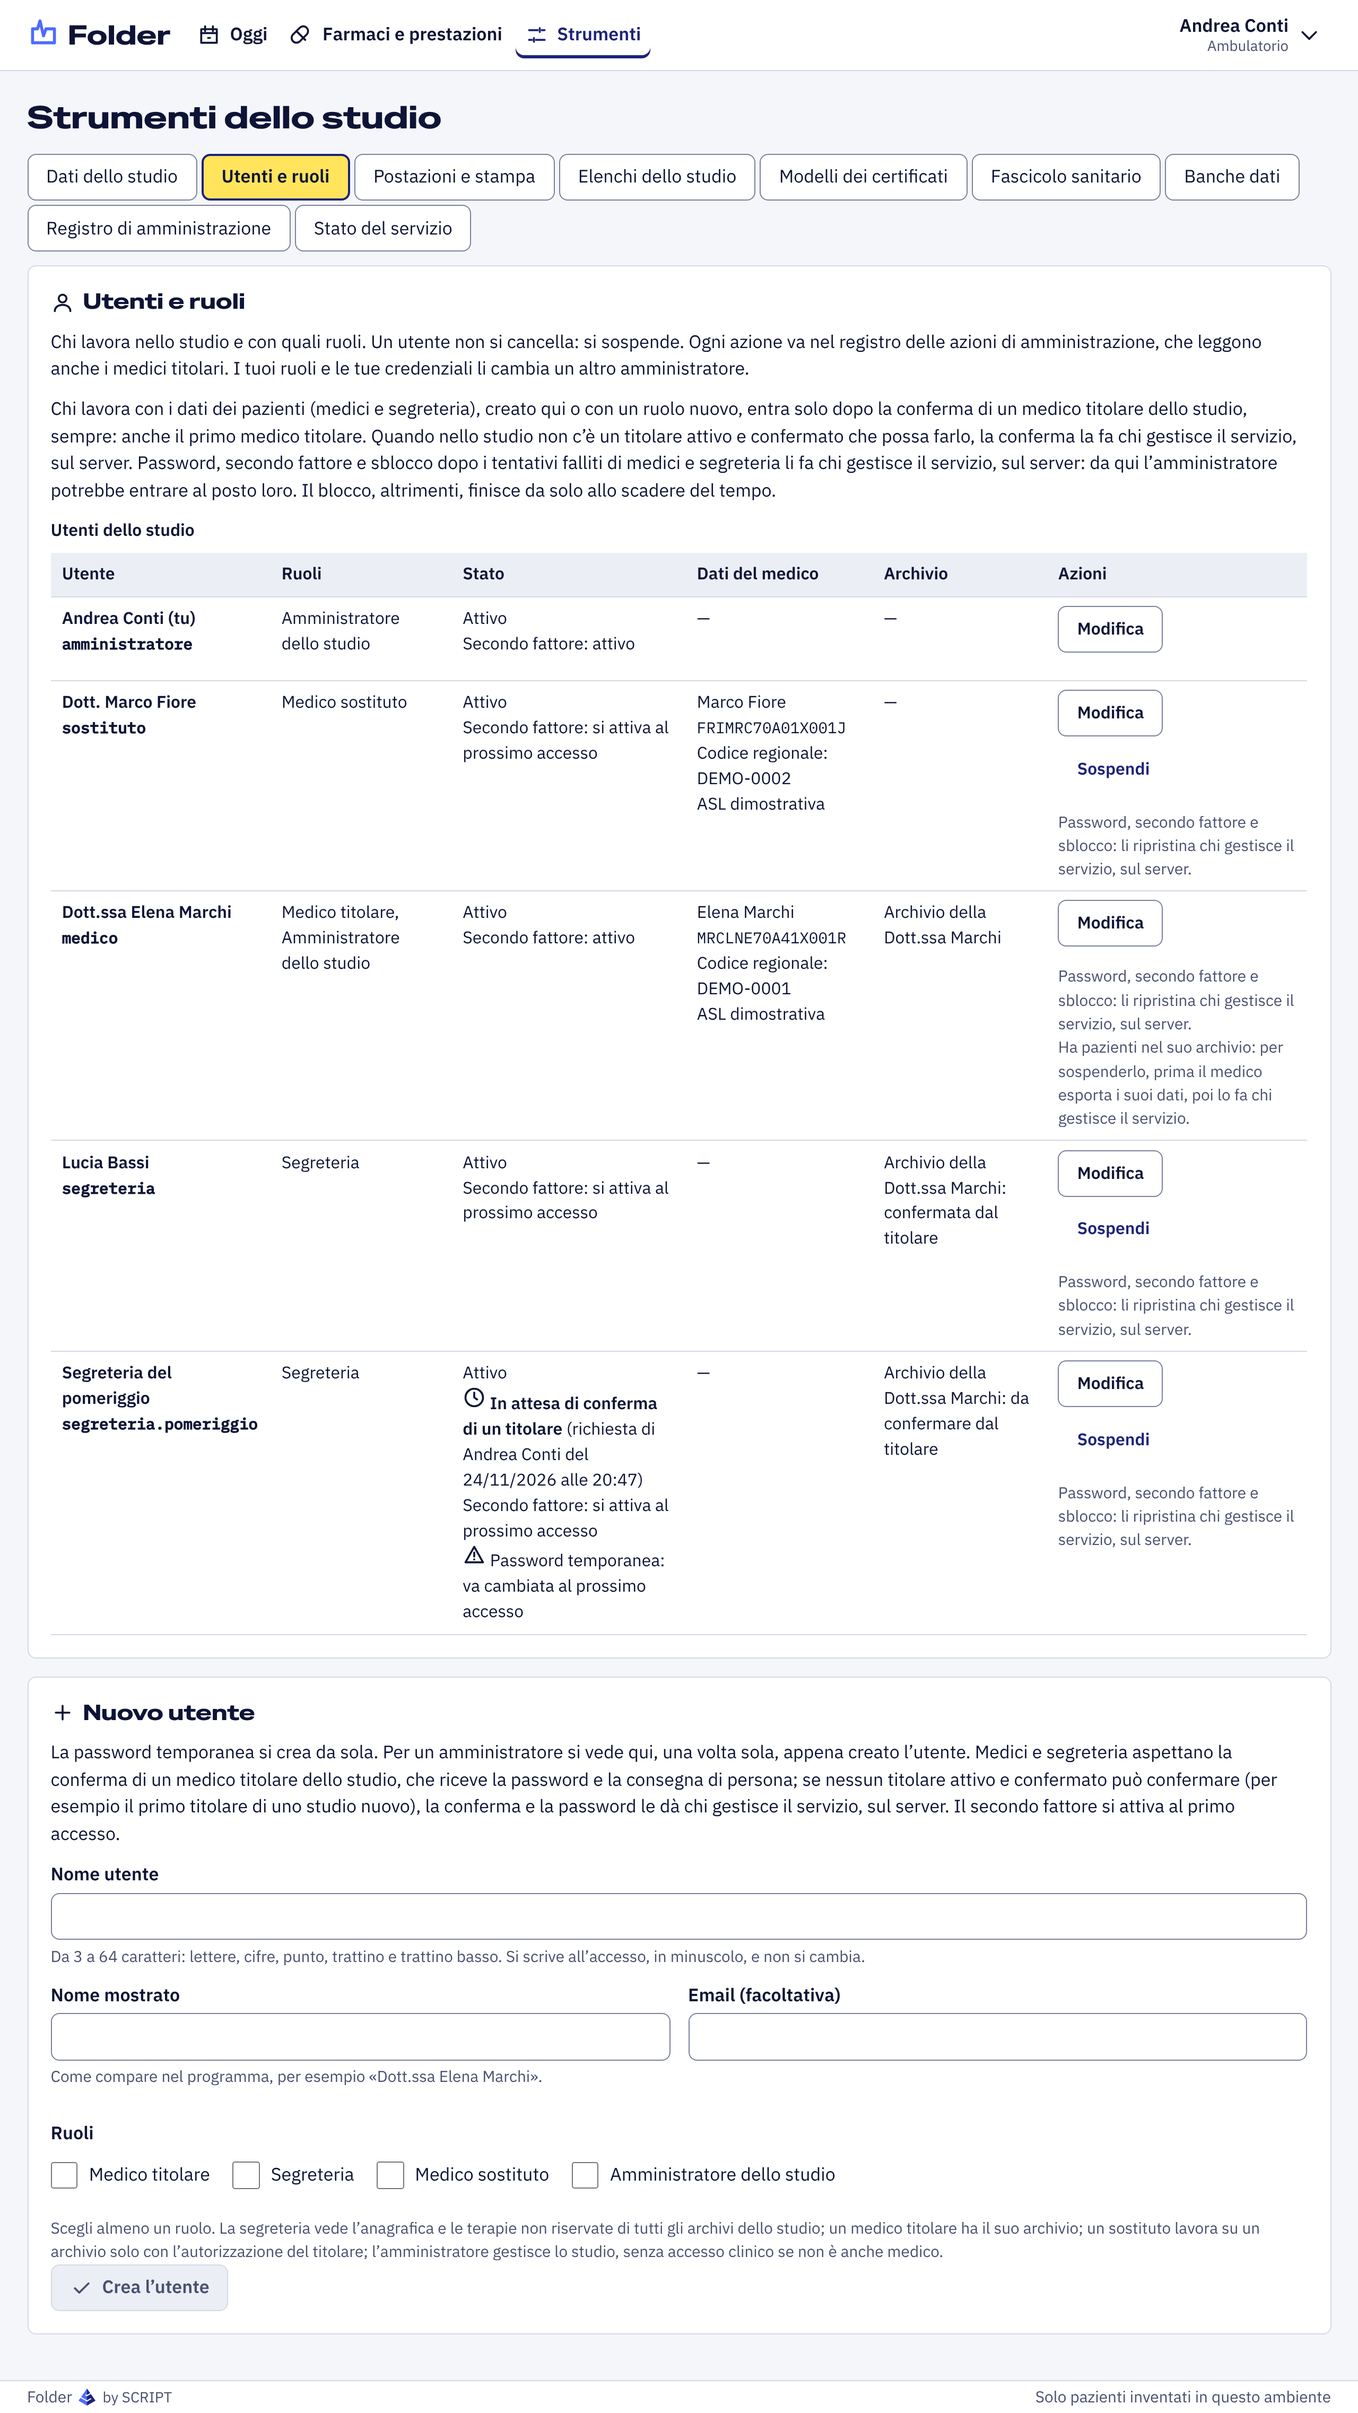
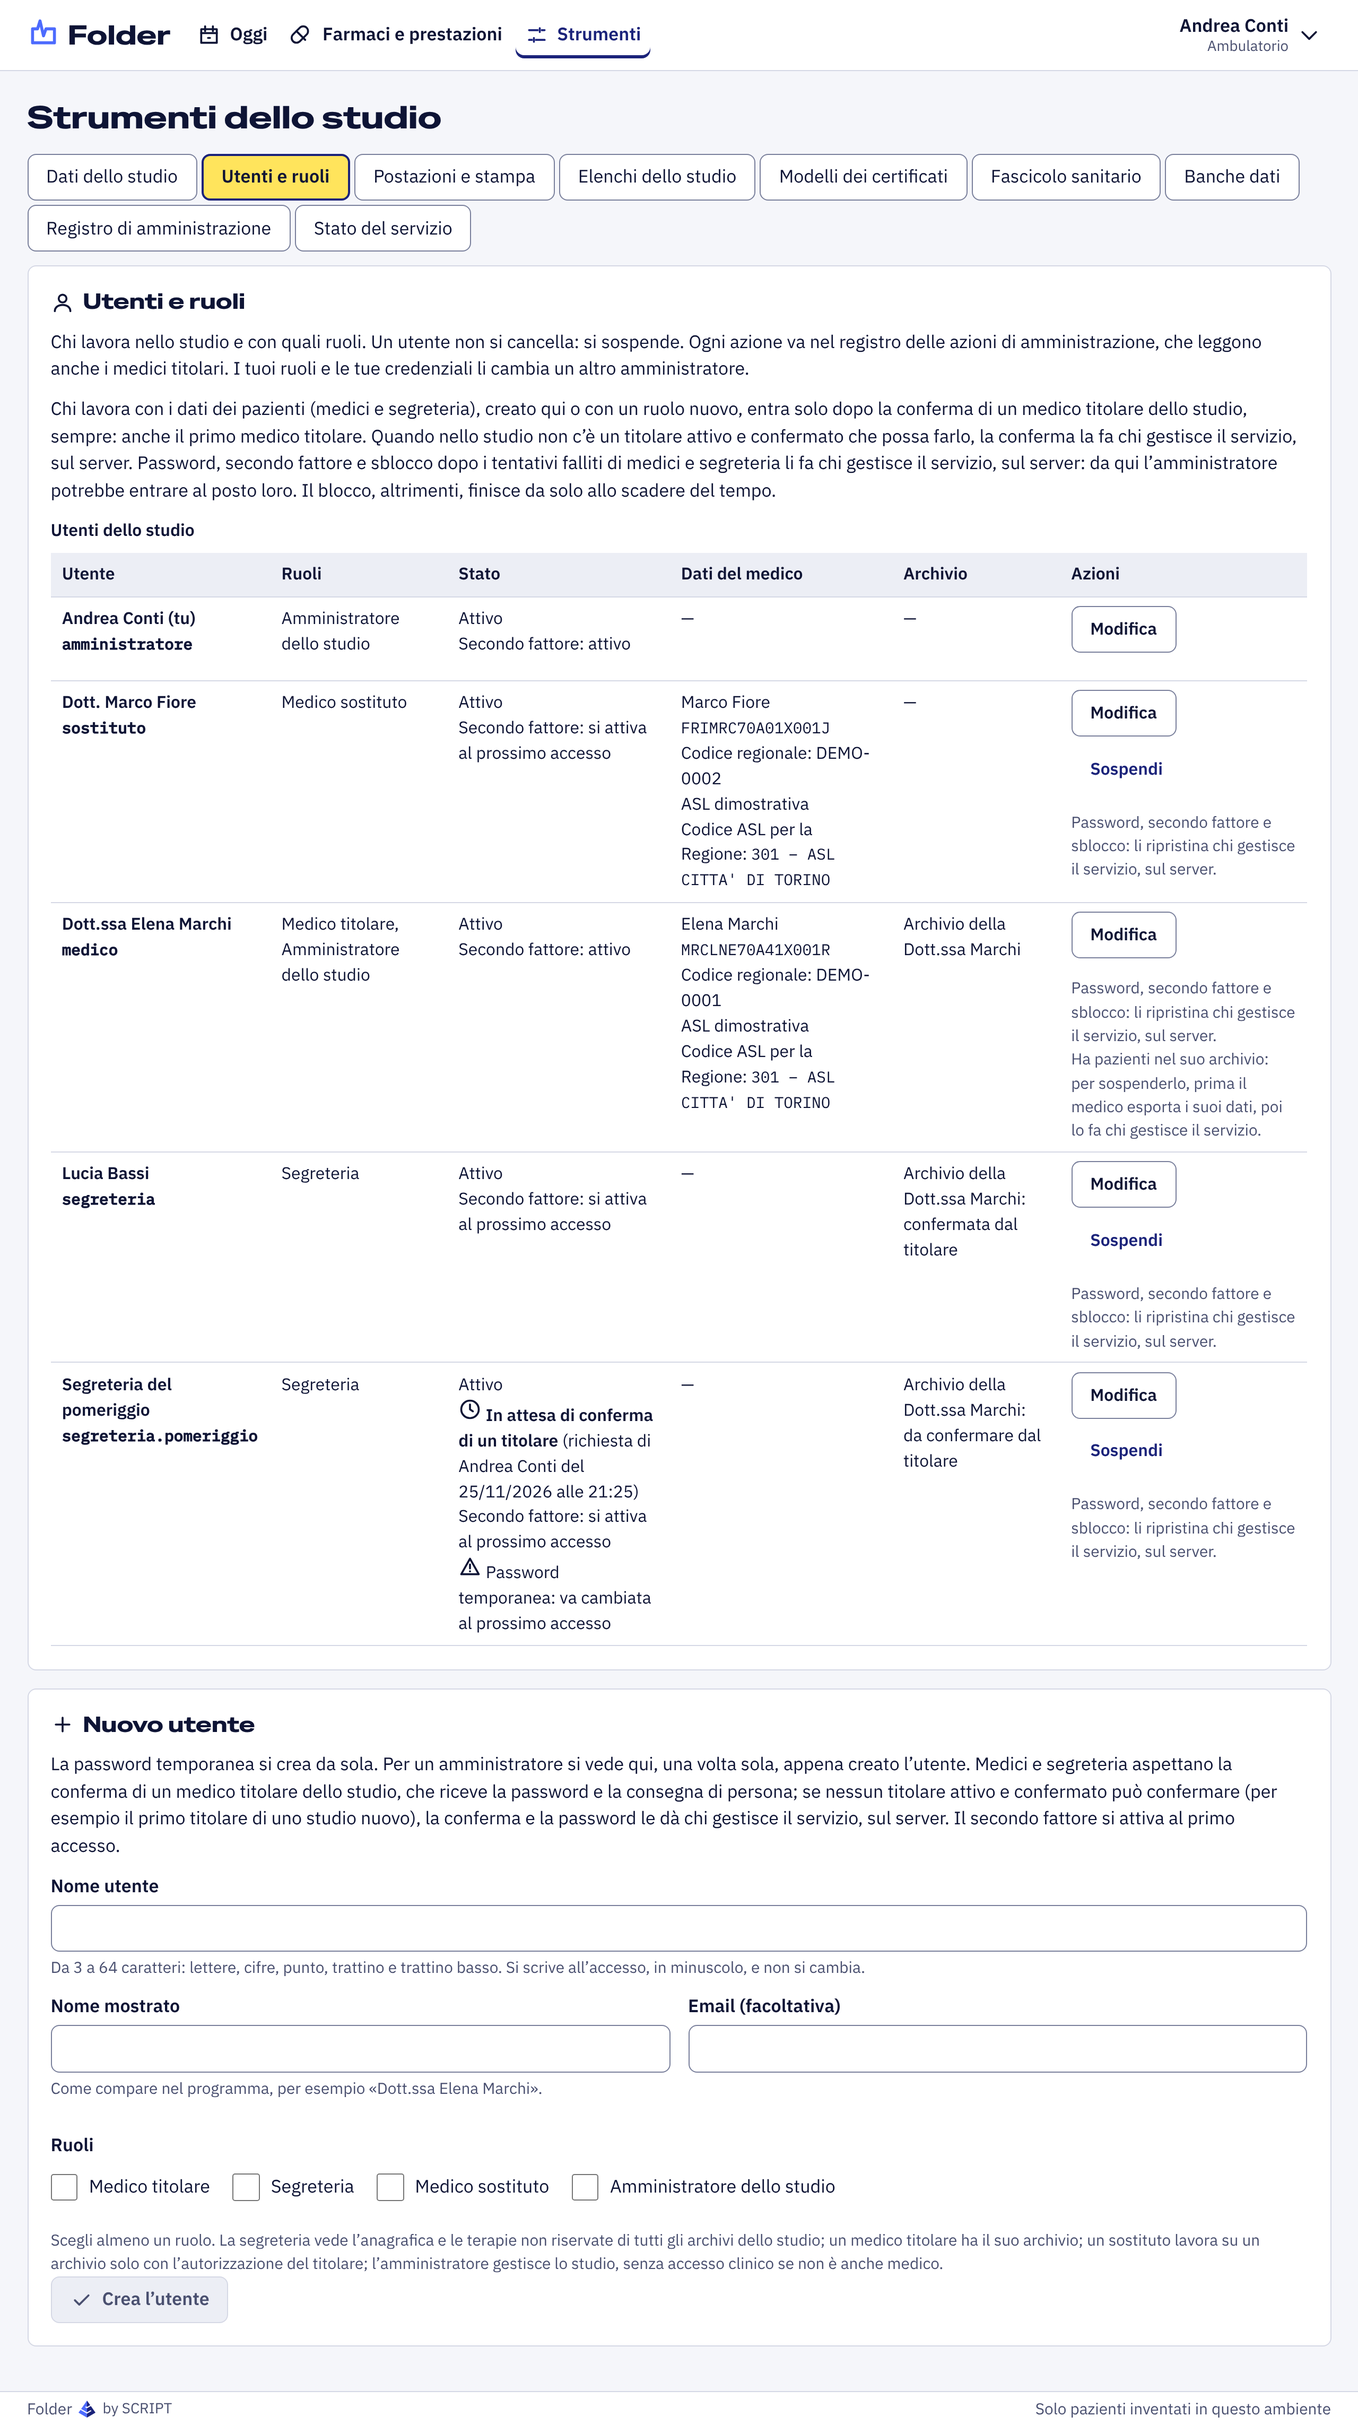
Ricetta rossa: schermate 77 e 78 e correzioni della rilettura (D270)
- La stampa della ricetta rimasta «in invio» confronta l'ora della firma in JavaScript dopo aver
  bloccato la riga: con i microsecondi salvati dal database il confronto in SQL non riconosceva
  lo stesso invio e fermava la stampa con «La ricetta è cambiata nel frattempo».
- L'esito della ricetta rossa che non si legge si rilegge dopo 5 minuti, come la lettura normale:
  prima l'attesa dipendeva dai tentativi dell'invio e arrivava a 60 minuti.
- Nel file DPCM a capo e tabulazioni diventano uno spazio: le parole restano separate.
- Lo stato con il simbolo sta sulla riga del testo che segue; «Invia adesso» staccato dall'elenco.
- Schermate 77 e 78; aggiornate la 51 (codice ASL del medico), la 52 (testo della V06) e la 76
  (sezione delle ricette rosse e NRE dal lotto).
- Ogni correzione con la sua prova e il sabotaggio, nel registro di docs/avanzamento.md.

Claude-Session: https://claude.ai/code/session_01Tv4Yo344qXk13ZKY4SDVSw

diff --git a/apps/api/src/prescriptions/dpcm.ts b/apps/api/src/prescriptions/dpcm.ts
@@ -378,9 +378,18 @@ export function createDpcmService(deps: DpcmDeps) {
           ricetta: { ...content.ricetta, nre: taken.nre },
           stampa: { ...content.stampa, nre: taken.nre },
         };
+        // Stessa ricetta e, se era «in invio», stesso invio. Il confronto si fa qui e non in SQL:
+        // l'ora salvata può avere i microsecondi, che una data di JavaScript non porta.
+        const [row] = await tx
+          .select({ status: prescription.status, signedAt: prescription.signedAt })
+          .from(prescription)
+          .where(eq(prescription.id, p.id))
+          .for('update', { of: prescription });
         const sameSend =
-          p.status === 'sending' && p.signedAt ? eq(prescription.signedAt, p.signedAt) : undefined;
-        const updated = await tx
+          p.status !== 'sending' || row?.signedAt?.getTime() === p.signedAt?.getTime();
+        if (row?.status !== p.status || !sameSend)
+          throw new HttpError(409, 'La ricetta è cambiata nel frattempo: ricarica la pagina');
+        await tx
           .update(prescription)
           .set({
             status: 'paper',
@@ -391,10 +400,7 @@ export function createDpcmService(deps: DpcmDeps) {
             sendingSnapshot: null,
             updatedAt: at,
           })
-          .where(and(eq(prescription.id, p.id), eq(prescription.status, p.status), sameSend))
-          .returning({ id: prescription.id });
-        if (!updated.length)
-          throw new HttpError(409, 'La ricetta è cambiata nel frattempo: ricarica la pagina');
+          .where(eq(prescription.id, p.id));
         await tx.insert(dpcmPrescription).values({
           prescriptionId: p.id,
           doctorUserId: actor.userId,
@@ -586,13 +592,15 @@ export function createDpcmService(deps: DpcmDeps) {
 
   async function checkOne(row: DpcmRow) {
     const got = await authOrError(row.doctorUserId, 'ricetta_dpcm');
-    const attempts = row.attempts + 1;
+    // L'esito si rilegge ogni 5 minuti, anche dopo una lettura non riuscita: i tentativi
+    // dell'invio non contano qui.
+    const again = () => new Date(now().getTime() + minutes(DPCM_CHECK_MINUTES));
     if ('error' in got) {
       await db
         .update(dpcmPrescription)
         .set({
           lastError: `Esito della ricetta rossa non letto: ${got.error ?? ''}`,
-          nextAttemptAt: new Date(now().getTime() + retryAfter(attempts)),
+          nextAttemptAt: again(),
         })
         .where(eq(dpcmPrescription.id, row.id));
       return;
@@ -625,7 +633,7 @@ export function createDpcmService(deps: DpcmDeps) {
         .update(dpcmPrescription)
         .set({
           lastError: `Esito della ricetta rossa non ancora letto: ${summary.message}. Si riprova da sé.`,
-          nextAttemptAt: new Date(now().getTime() + retryAfter(attempts)),
+          nextAttemptAt: again(),
         })
         .where(eq(dpcmPrescription.id, row.id));
       return;
@@ -637,7 +645,7 @@ export function createDpcmService(deps: DpcmDeps) {
           sendState: 1,
           checkedAt: now(),
           lastError: null,
-          nextAttemptAt: new Date(now().getTime() + minutes(DPCM_CHECK_MINUTES)),
+          nextAttemptAt: again(),
         })
         .where(eq(dpcmPrescription.id, row.id));
       return;
@@ -672,7 +680,7 @@ export function createDpcmService(deps: DpcmDeps) {
           .set({
             sendState: summary.state,
             lastError: `Messaggi dell’esito non ancora letti: ${analytic.message}. Si riprova da sé.`,
-            nextAttemptAt: new Date(now().getTime() + retryAfter(attempts)),
+            nextAttemptAt: again(),
           })
           .where(eq(dpcmPrescription.id, row.id));
         return;

diff --git a/apps/api/test/ricetta-rossa.test.ts b/apps/api/test/ricetta-rossa.test.ts
@@ -1,5 +1,5 @@
 import { SimulatedGateway, type SimulatorOptions } from '@mmg/integrations';
-import { and, asc, eq, inArray } from 'drizzle-orm';
+import { and, asc, eq, inArray, sql } from 'drizzle-orm';
 import { afterAll, beforeAll, beforeEach, describe, expect, it } from 'vitest';
 import {
   dpcmPrescription,
@@ -320,6 +320,28 @@ describe('ricetta rossa in DPCM (D270)', () => {
     expect(d.attempts).toBe(2);
   });
 
+  it('l’esito che non si legge si rilegge dopo 5 minuti, anche dopo un invio riprovato', async () => {
+    const id = await uncertain();
+    options.decideDpcmReceipt = () => 'unreachable';
+    expect((await print(id)).statusCode).toBe(200);
+    await runQueue();
+    await runQueue();
+    delete options.decideDpcmReceipt;
+    await runQueue();
+    expect((await red(id))!).toMatchObject({ status: 'accepted', attempts: 3 });
+    const summary = sar.dpcmSummary.bind(sar);
+    sar.dpcmSummary = () =>
+      Promise.resolve({ outcome: 'unreachable', message: 'Servizio non raggiungibile (simulato)' });
+    try {
+      await runQueue();
+    } finally {
+      sar.dpcmSummary = summary;
+    }
+    const d = (await red(id))!;
+    expect(d.lastError).toMatch(/Esito della ricetta rossa non ancora letto/);
+    expect(d.nextAttemptAt!.getTime() - s.clock.now().getTime()).toBe(DPCM_CHECK_MINUTES * 60_000);
+  });
+
   it('il giorno dopo la compilazione il SAR dà l’avviso 2090, che non si corregge', async () => {
     const id = await uncertain();
     options.decideDpcmReceipt = () => 'unreachable';
@@ -469,6 +491,18 @@ describe('ricetta rossa in DPCM (D270)', () => {
     expect(res.json().annullamentoDematerializzata).toBe('da_fare');
     expect(res.json().nre).not.toBe('010ZZ4999990001');
     expect((await red(id))!).toMatchObject({ dmNre: '010ZZ4999990001', dmCancelStatus: 'pending' });
+    expect((await row(id)).status).toBe('paper');
+  });
+
+  it('l’ora della firma con i microsecondi non ferma la stampa: lo stesso invio si riconosce', async () => {
+    const id = await stuck('010ZZ4999990003');
+    // Postgres tiene i microsecondi, una data di JavaScript no: come un'ora scritta dal database.
+    await t.db.execute(
+      sql`update prescription set signed_at = signed_at + interval '250 microseconds' where id = ${id}`,
+    );
+    s.clock.advance(16 * 60_000);
+    const res = await print(id);
+    expect(res.statusCode, res.body).toBe(200);
     expect((await row(id)).status).toBe('paper');
   });
 

diff --git a/packages/integrations/test/dpcm.test.ts b/packages/integrations/test/dpcm.test.ts
@@ -144,6 +144,10 @@ describe('file della ricetta DPCM (RicettaMIR.xsd 2.1; D270)', () => {
     expect(toBasicLatin('È più l’ultima «prova» – ok')).toBe('E piu l\'ultima "prova" - ok');
     // Il resto, che non ha un equivalente semplice, si toglie: niente «€», «°», «ß» o «µ».
     expect(toBasicLatin('Dose 5 µg, 37 °C, 2 €, Straße')).toBe('Dose 5 g, 37 C, 2 , Strae');
+    // A capo e tabulazioni separano le parole: diventano uno spazio, non spariscono.
+    expect(toBasicLatin('Controllo\ndella\r\nfunzione\trenale')).toBe(
+      'Controllo della funzione renale',
+    );
     const xml = dpcmInsertXml(specialistica(), { pinCode: '1', crypto: SIMULATED_DPCM_CRYPTO });
     expect(/^[\x20-\x7e]*$/.test(xml)).toBe(true);
     expect(xml).toContain('<DescrizioneDiagnosi>Controllo dopo la terapia: e piu stanca');

diff --git a/apps/web/src/styles/global.css b/apps/web/src/styles/global.css
@@ -935,9 +935,14 @@ legend {
 /* Aggiornamento delle banche dati (D156): esito con simbolo e parola. */
 .esito-aggiornamento {
   display: inline-flex;
-  align-items: center;
+  /* La parola sulla stessa linea del testo che segue; il simbolo al centro. */
+  align-items: baseline;
   gap: 0.25rem;
   font-weight: 600;
+}
+
+.esito-aggiornamento > .icona {
+  align-self: center;
 }
 
 .esito-fatto {
@@ -1983,6 +1988,11 @@ a.coda:hover {
 .ricetta-in-coda {
   padding: 0.75rem 0;
   border-top: 1px solid var(--color-divider);
+}
+
+/* «Invia adesso» sopra l'elenco delle ricette rosse: staccato dal primo riquadro. */
+.azioni-sopra-elenco {
+  margin-bottom: 0.75rem;
 }
 
 /* Scheda della terapia ------------------------------------------------------------------- */

diff --git a/apps/api/test/e2e/schermate.ts b/apps/api/test/e2e/schermate.ts
@@ -215,7 +215,17 @@ try {
   await form.evaluate((el) => el.scrollIntoView({ block: 'center' }));
   await shot(page, '77-ricetta-rossa-modulo');
   await form.getByRole('button', { name: 'Prepara la ricetta rossa' }).click();
-  await interrupted.getByText(/Ricetta rossa pronta sul modulo/).waitFor();
+  await interrupted
+    .getByText(/Ricetta rossa pronta sul modulo/)
+    .waitFor()
+    .catch(async (err: unknown) => {
+      throw new Error(
+        `Ricetta rossa non pronta. La sezione mostra:\n${await interrupted.innerText()}`,
+        {
+          cause: err,
+        },
+      );
+    });
   const red = page.getByRole('region', { name: 'Ricette rosse in DPCM' });
   await red.getByRole('button', { name: 'Invia adesso' }).click();
   await red

diff --git a/packages/integrations/src/dpcm.ts b/packages/integrations/src/dpcm.ts
@@ -102,11 +102,13 @@ export function decryptSimulated(value: string): string | null {
 /**
  * Solo caratteri «BasicLatin» (da U+0000 a U+007F): è il dominio di quasi tutti i tipi dello schema
  * (TipiDatiMIR.xsd, `\p{IsBasicLatin}`). Le lettere accentate perdono l'accento, gli apostrofi e le
- * virgolette tipografiche diventano quelli semplici; il resto si toglie.
+ * virgolette tipografiche diventano quelli semplici; a capo e tabulazioni diventano uno spazio, così
+ * le parole restano separate; il resto si toglie.
  */
 export function toBasicLatin(text: string): string {
   return text
     .normalize('NFD')
+    .replace(/\s+/g, ' ')
     .replace(/[̀-ͯ]/g, '')
     .replace(/[‘’ʼ]/g, "'")
     .replace(/[“”«»]/g, '"')

diff --git a/apps/web/src/pages/SignQueuePage.tsx b/apps/web/src/pages/SignQueuePage.tsx
@@ -642,7 +642,7 @@ function RedQueue({ reloadKey }: { reloadKey: number }) {
   return (
     <>
       {open && (
-        <div className="azioni">
+        <div className="azioni azioni-sopra-elenco">
           <button type="button" className="pulsante" onClick={() => void sendNow()} disabled={busy}>
             <Icon name="ripeti" /> <span>Invia adesso</span>
           </button>

diff --git a/docs/avanzamento.md b/docs/avanzamento.md
@@ -4281,3 +4281,6 @@ Ogni controllo nuovo viene rotto apposta (`scripts/sabotaggio.sh`), deve diventa
 | D270: interfaccia, la sezione delle ricette rosse solo per il medico                                          | SignQueuePage.tsx: sezione anche alla segreteria                                                                          | Rosso, poi verde                                                                                                                                                                                                                                                                                                 |
 | D270: interfaccia, Oggi porta alle ricette rosse da seguire                                                   | TodayPage.tsx: riquadro tolto                                                                                             | Rosso, poi verde                                                                                                                                                                                                                                                                                                 |
 | D270: la dematerializzata si annulla a nome di chi l'aveva firmata                                            | dpcm.ts: annullamento a nome di chi stampa la ricetta rossa                                                               | Rosso, poi verde                                                                                                                                                                                                                                                                                                 |
+| D270: l'ora della firma con i microsecondi non ferma la ricetta rossa                                         | dpcm.ts: confronto dell'ora della firma fatto in SQL                                                                      | Rosso, poi verde                                                                                                                                                                                                                                                                                                 |
+| D270: l'esito della ricetta rossa si rilegge dopo 5 minuti, anche dopo un invio riprovato                     | dpcm.ts: attesa presa dai tentativi dell'invio                                                                            | Rosso, poi verde                                                                                                                                                                                                                                                                                                 |
+| D270: a capo e tabulazioni nel file DPCM diventano uno spazio                                                 | dpcm.ts (integrazioni): conversione degli spazi tolta                                                                     | Rosso, poi verde                                                                                                                                                                                                                                                                                                 |
